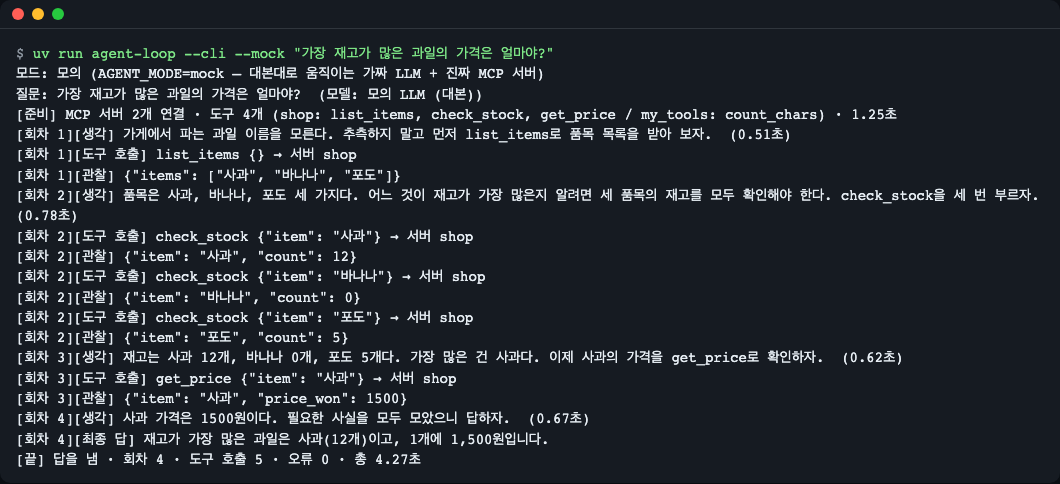
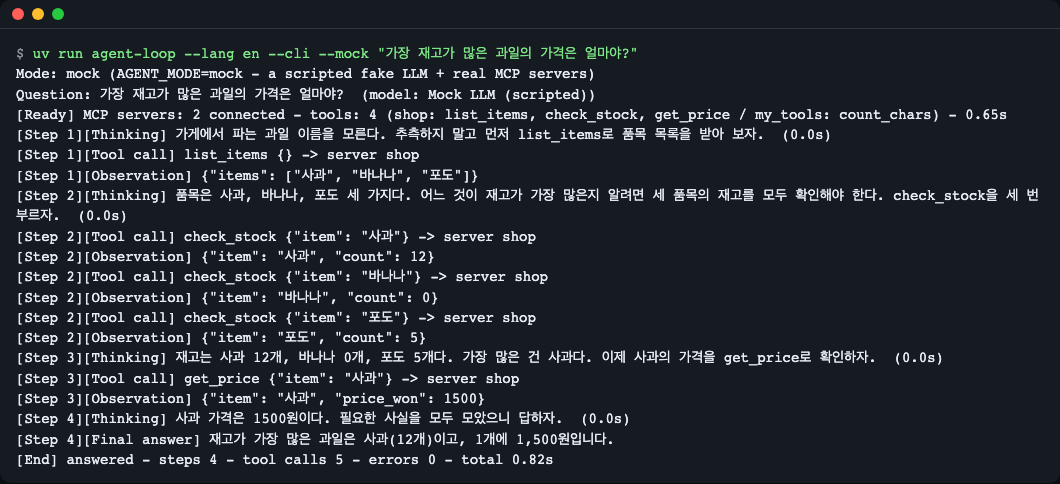
docs(readme): document language switching and add Korean CLI capture
Describe --lang and AGENT_LOOP_LANG, match button names to the UI, and note the argparse error limitation.

Changed region(s): [[0.0, 0.093, 0.9962, 0.9607]]

diff --git a/README.md b/README.md
@@ -4,7 +4,7 @@
 
 A small, transparent demo of a tool-using AI agent loop (plan → act → observe, repeated) that talks to two MCP (Model Context Protocol) servers. Run `uv run agent-loop --mock` and the browser shows every step: the model's thinking, each `tools/call` request, each result, and the growing message history. Mock mode needs no model and no network; real mode uses a local Ollama model (`qwen3:4b`).
 
-![Screen while one example question runs: thinking, tool-call and observation cards pile up and the highlight in the loop diagram moves along](docs/images/00-hero-loop.gif)
+![Screen while one example question runs: thinking, tool-call and observation cards pile up and the highlight in the loop diagram moves along. The screenshot shows the Korean UI](docs/images/00-hero-loop.gif)
 <sub>When you enter one question, "thinking → tool call → observation" cards pile up and the conversation history on the right grows one line at a time. (Recorded in mock mode)</sub>
 
 ## One-line summary
@@ -49,17 +49,17 @@ uv run agent-loop --mock
 The two lines below appear in the terminal and a browser opens. Press `Ctrl+C` to quit.
 
 ```text
-모드: 모의 (AGENT_MODE=mock — 대본대로 움직이는 가짜 LLM + 진짜 MCP 서버)
-주소: http://127.0.0.1:8765  (끝내려면 Ctrl+C)
+Mode: mock (AGENT_MODE=mock - a scripted fake LLM + real MCP servers)
+Address: http://127.0.0.1:8765  (press Ctrl+C to quit)
 ```
 
-(Mode: mock (AGENT_MODE=mock — a fake LLM that follows a script + real MCP servers). Address: http://127.0.0.1:8765 (Ctrl+C to quit).)
+(In a Korean locale, or with `--lang ko`, the same two lines are printed in Korean. See "Changing the display language" below.)
 
 If the browser doesn't open, open the address above yourself. On the first run it takes a little while because uv downloads packages.
 
 **What is mock mode?** It is a mode where a "fake model that speaks from a script" takes the place of the AI model. It runs without a model and the result is the same every time. However, the tool side (the MCP servers) is **real**: the server processes actually start, and messages are actually exchanged.
 
-![First screen. Numbered marks on the mode badge, the connected MCP server list and the example question buttons](docs/images/01-first-screen.png)
+![First screen. Numbered marks on the mode badge, the connected MCP server list and the example question buttons. The screenshot shows the Korean UI](docs/images/01-first-screen.png)
 <sub>The first screen. 1 the current mode, 2 the tool list the servers reported, 3 example questions to click.</sub>
 
 To run with a real local model (downloads about 2.5GB of model):
@@ -69,19 +69,31 @@ ollama pull qwen3:4b
 uv run agent-loop --real
 ```
 
+## Changing the display language
+
+The screen and the terminal output come in **English and Korean**. English is the default; Korean is used when you ask for it or when your system language is Korean.
+
+- **Terminal (CLI):** `uv run agent-loop --lang en --cli --mock "..."` for English or `--lang ko` for Korean (`--lang en|ko`). Without the option the language is taken from the `AGENT_LOOP_LANG` environment variable (`en` or `ko`), then from `LC_ALL`, `LC_MESSAGES` and `LANG` in that order. A value starting with `ko` (for example `ko_KR.UTF-8`) means Korean; anything else means English. `--help` follows the same choice. An invalid `--lang` value stops with exit code 2.
+- **Web screen:** use the **English / 한국어** menu in the header. Your choice is saved in the browser (`localStorage`) and kept after a reload. Only the first visit picks the language from the browser's language. Messages produced by the server (errors, the mode notice, the mock model's name) follow the same choice.
+- **What stays as it is:** the example questions and the shop data are Korean demo data, so they appear in Korean in the English UI too. MCP tool names and schemas, the event JSON field names, log files and exit codes do not depend on the language.
+
+> Upgrading from 0.1.x: in a non-Korean environment the default output language is now English (it used to be Korean). To keep the old output, run with `--lang ko` or set `AGENT_LOOP_LANG=ko`.
+
 ## Step by step
+
+> The web screenshots below show the Korean UI. The English UI has the same layout, with an English / 한국어 menu in the header.
 
 ### Step 1. See the "tool list" on the first screen
 
-Look at **연결된 MCP 서버** ("Connected MCP servers") on the left of the screen. You'll see 3 tools (`list_items`, `check_stock`, `get_price`) on the `shop` server and 1 tool (`count_chars`) on the `my_tools` server.
+Look at **Connected MCP servers** (**연결된 MCP 서버** in the Korean screen) on the left of the screen. You'll see 3 tools (`list_items`, `check_stock`, `get_price`) on the `shop` server and 1 tool (`count_chars`) on the `my_tools` server.
 
 This list is the answer the program got when it asked each server at startup, "what tools do you have?" In MCP this question is called **`tools/list`**. It contains each tool's **name, description and input format**, and the AI model reads exactly this text to choose which tool to call. In other words, a tool description is the user manual the model reads.
 
 ### Step 2. Run example 1 — a loop where results change the next action
 
-Click the button **예시 1: 가장 재고가 많은 과일의 가격은 얼마야?** ("Example 1: What is the price of the fruit with the most stock?"). A few seconds later the screen looks like this.
+Click the button **Example 1: 가장 재고가 많은 과일의 가격은 얼마야?** (the question is Korean demo data: "What is the price of the fruit with the most stock?"). A few seconds later the screen looks like this.
 
-![Full screen after example 1 finishes. Cards for rounds 1 to 4 are stacked, with the conversation history on the right](docs/images/02-chain-done.png)
+![Full screen after example 1 finishes. Cards for rounds 1 to 4 are stacked, with the conversation history on the right. The screenshot shows the Korean UI](docs/images/02-chain-done.png)
 <sub>Gray is thinking, blue is a tool call, green is an observation (the result the tool returned), and purple is the final answer.</sub>
 
 Read the cards from top to bottom.
@@ -93,13 +105,13 @@ Read the cards from top to bottom.
 
 The key point is that **without the result of round 1 (the item list), the action of round 2 could not have been decided.** The observation determines the next action. That is the loop.
 
-Also look at the **모델에게 보낸 대화 기록** ("Conversation history sent to the model") on the right. Entries grow with each round. The model has no memory, so in every round it re-reads "the entire conversation so far" and then says its next words.
+Also look at the **Conversation history sent to the model** on the right. Entries grow with each round. The model has no memory, so in every round it re-reads "the entire conversation so far" and then says its next words.
 
 ### Step 3. Open the MCP messages yourself
 
-Click **MCP 요청 보기 / MCP 응답 보기** ("View MCP request / View MCP response") on the tool-call card and the observation card to expand them.
+Click **Show MCP request (tools/call)** and **Show MCP response (content · structuredContent · isError)** on the tool-call card and the observation card to expand them.
 
-![Screen with the tool-call card and observation card expanded, showing the tools/call request and the result JSON](docs/images/03-mcp-messages.png)
+![Screen with the tool-call card and observation card expanded, showing the tools/call request and the result JSON. The screenshot shows the Korean UI](docs/images/03-mcp-messages.png)
 <sub>The upper request is `tools/call`, and the lower response contains `structuredContent` and `isError`.</sub>
 
 - Request: `"method": "tools/call"`, the tool name and the arguments (`arguments`). This is the MCP message that says "please run this tool with these values."
@@ -109,27 +121,27 @@ As the note at the bottom of the screen says, the request side is reconstructed 
 
 ### Step 4. An error is an observation too
 
-Click **예시 2: 수박 재고 있어?** ("Example 2: Is watermelon in stock?"). This shop has no watermelon.
+Click **Example 2: 수박 재고 있어?** ("Is watermelon in stock?"). This shop has no watermelon.
 
-![A red observation card marked isError true when asked about watermelon stock, and the next round that reads that error and answers](docs/images/04-error-observed.png)
+![A red observation card marked isError true when asked about watermelon stock, and the next round that reads that error and answers. The screenshot shows the Korean UI](docs/images/04-error-observed.png)
 <sub>The red card is the error observation. This text goes back to the model as is and becomes material for the next round of thinking.</sub>
 
 The tool returns the error `Error executing tool check_stock: unknown item: 수박. known: ['사과', '바나나', '포도']` (the leading `Error executing tool <tool name>:` is a prefix the SDK attaches; "수박" is watermelon). The program does not stop here; it **appends this error to the conversation history as an observation.** The model reads the information that "only three items are possible" and answers "we don't carry watermelon." If you **put a clue for fixing it** in the error text, the model can correct itself.
 
 ### Step 5. View one step at a time
 
-Check **한 단계씩 보기** ("View step by step") and run example 1 again. Now each time you click the **다음 단계** ("Next step") button, one card appears.
+Check **Step by step** and run example 1 again. Now each time you click the **Next step** button, one card appears.
 
-![Screen with step-by-step view on and Next step clicked five times. Only up to round 2's thinking is visible](docs/images/06-step-mode.png)
+![Screen with step-by-step view on and Next step clicked five times. Only up to round 2's thinking is visible. The screenshot shows the Korean UI](docs/images/06-step-mode.png)
 <sub>1 The button shows the number of steps remaining. 2 Only as many cards appear as you clicked. The loop diagram on the right highlights the current step.</sub>
 
 It is good for taking the loop apart slowly. Before clicking the button, try guessing first: "what will the next card be?"
 
 ### Step 6. See your own tool being called (example 3)
 
-Click **예시 3: '에이전트 루프'는 몇 글자야?** ("Example 3: How many characters is '에이전트 루프' (agent loop)?").
+Click **Example 3: '에이전트 루프'는 몇 글자야?** ("How many characters is '에이전트 루프' (agent loop)?").
 
-![The count_chars tool is called and returns 7 characters, 6 without spaces](docs/images/05-my-tool.png)
+![The count_chars tool is called and returns 7 characters, 6 without spaces. The screenshot shows the Korean UI](docs/images/05-my-tool.png)
 <sub>This time `count_chars` of the `my_tools` server was called, not `shop`.</sub>
 
 AI models often get character counting wrong. So the job is handed to a tool that is a few lines of function, and the model reads the result and answers. The code of this tool is in `servers/my_tools_server.py`, and you'll build one more in "Try changing things yourself" below.
@@ -139,13 +151,14 @@ AI models often get character counting wrong. So the job is handed to a tool tha
 The same loop runs even without a screen.
 
 ```bash
-uv run agent-loop --cli --mock "가장 재고가 많은 과일의 가격은 얼마야?"
+uv run agent-loop --lang en --cli --mock "가장 재고가 많은 과일의 가격은 얼마야?"
+# Korean labels: --lang ko (see "Changing the display language")
 ```
 
 ![Terminal output printing the thinking, tool calls and observations of each round, one line at a time](docs/images/07-cli.png)
-<sub>The same events as the web screen, printed as text. The final `[끝]` ("[end]") line summarizes the number of rounds and tool calls.</sub>
+<sub>The same events as the web screen, printed as text. The final `[End]` line (`[끝]` in Korean) summarizes the number of rounds and tool calls.</sub>
 
-The log the MCP server leaves (stderr) is collected in `runs/mcp-server-stderr.log` instead of the terminal so that output doesn't get mixed (rewritten on each run). If a log exists, the end notes it like `[서버 로그] MCP 서버가 남긴 로그 1줄은 runs/mcp-server-stderr.log 에 있습니다.` ("[server log] 1 line of log left by the MCP server is in runs/mcp-server-stderr.log."). If you run example 2 (watermelon), you can see the `Tool 'check_stock' failed: ...` line the server left in this file.
+The log the MCP server leaves (stderr) is collected in `runs/mcp-server-stderr.log` instead of the terminal so that output doesn't get mixed (rewritten on each run). If a log exists, the end notes it like `[Server log] The MCP servers wrote 1 log line(s) to runs/mcp-server-stderr.log.` (`[서버 로그] ...` in Korean). If you run example 2 (watermelon), you can see the `Tool 'check_stock' failed: ...` line the server left in this file.
 
 ### Step 8. Run with a real model
 
@@ -194,11 +207,12 @@ MCP's role is steps 2 and 4, that is, it defines **how tools are announced (`too
 | [`src/agentloop/mcp_hub.py`](src/agentloop/mcp_hub.py) | Connecting MCP servers, merging tool lists, calling tools |
 | [`src/agentloop/llm.py`](src/agentloop/llm.py) | Streaming thinking from Ollama |
 | [`src/agentloop/mock_llm.py`](src/agentloop/mock_llm.py), [`scenarios/`](scenarios) | The scripted model and scripts for mock mode |
+| [`src/agentloop/i18n.py`](src/agentloop/i18n.py) | English / Korean message table and language choice for the CLI and server messages (the web screen has its own table at the top of `static/app.js`) |
 | [`servers/shop_server.py`](servers/shop_server.py), [`servers/my_tools_server.py`](servers/my_tools_server.py) | The MCP server side (the side that holds the tools) |
 | [`src/agentloop/web.py`](src/agentloop/web.py), [`static/`](src/agentloop/static) | The web screen and event relay |
 | [`tests/`](tests) | Tests (they run in mock mode and need no key or model). Run with `uv run pytest` |
 
-**Running the tests:** `uv run pytest` finishes within a minute without a key or model (tests that need a real Ollama are skipped by default, and are run separately with `uv run pytest -m ollama`).
+**Running the tests:** `uv run pytest` finishes within a minute without a key or model (76 tests pass; tests that need a real Ollama are skipped by default, and are run separately with `uv run pytest -m ollama`).
 
 We recommend reading in the order `agent.py` → `mcp_hub.py` → `servers/`. Here are the three key places.
 
@@ -283,31 +297,29 @@ def reverse_text(text: str) -> Reversed:
     return {"text": text[::-1]}
 ```
 
-Save, and click the **다시 불러오기** ("Reload") button on the web screen (servers start fresh on each run) and it changes to `my_tools · 도구 2개` ("my_tools · 2 tools") and a `reverse_text` card appears. In the terminal it shows in the `[준비]` ("[ready]") line as `my_tools: count_chars, reverse_text`. Mock mode has scripts only for the 3 example questions, so to actually get the new tool called you have to ask in real mode (`--real`), such as "hello를 거꾸로 써 줘" ("write hello backwards"). If you made a separate new server file, add one line to `mcp_servers.json`.
+Save, and click the **Reload** button on the web screen (servers start fresh on each run) and it changes to `my_tools · tools: 2` and a `reverse_text` card appears. In the terminal it shows in the `[Ready]` line as `my_tools: count_chars, reverse_text`. Mock mode has scripts only for the 3 example questions, so to actually get the new tool called you have to ask in real mode (`--real`), such as "hello를 거꾸로 써 줘" ("write hello backwards"). If you made a separate new server file, add one line to `mcp_servers.json`.
 
 **2. Reduce the maximum rounds** — reduce the round cap to 2 with an environment variable.
 
 ```bash
-AGENT_MAX_STEPS=2 uv run agent-loop --cli --mock "가장 재고가 많은 과일의 가격은 얼마야?"
+AGENT_MAX_STEPS=2 uv run agent-loop --lang en --cli --mock "가장 재고가 많은 과일의 가격은 얼마야?"
 ```
 
-Example 1 needs 4 rounds, so it ends like this.
+Example 1 needs 4 rounds, so it ends like this (the last line of the output).
 
 ```text
-[끝] 최대 회차 도달 · 회차 2 · 도구 호출 4 · 오류 0 · 총 2.85초
+[End] max steps reached - steps 2 - tool calls 4 - errors 0 - total 1.9s
 ```
-
-(Meaning: "[end] maximum rounds reached · round 2 · tool calls 4 · errors 0 · total 2.85 s".)
 
 Stopping without an answer is the role of the "maximum rounds" guard. It protects the program in a situation where the model calls the same tool forever.
 
 **3. What if the error text is hidden?** — change `raise ToolError(` to `raise ValueError(` in `servers/shop_server.py` and run example 2 again. The observation changes like this.
 
 ```text
-[회차 1][관찰·오류] Error executing tool check_stock
+[Step 1][Observation-error] Error executing tool check_stock
 ```
 
-(The prefix reads "[round 1][observation·error]".)
+(Run it with `uv run agent-loop --lang en --cli --mock "수박 재고 있어?"`.)
 
 Originally (`ToolError`), the cause text follows the prefix, like `Error executing tool check_stock: unknown item: 수박. …`. If you change to a general exception, only the prefix remains and the cause text is hidden. The model can no longer know "what is possible", so the clue for fixing it disappears. (The scripted model in mock mode gives the same answer anyway, but with a real model there is a difference. After checking, put it back as it was.)
 
@@ -317,13 +329,14 @@ Originally (`ToolError`), the cause text follows the prefix, like `Error executi
 |---|---|---|
 | `VIRTUAL_ENV ... does not match the project environment` warning | Another Python virtual environment is active in the shell | You can ignore it. To get rid of it, `deactivate` or `env -u VIRTUAL_ENV uv run ...` |
 | The server won't start because the address is already in use | Another program uses port 8765 | `uv run agent-loop --port 9000` or `AGENT_PORT=9000` |
-| The mode starts as "모의" (mock) | Ollama is off or has no model, or Ollama was busy and didn't answer within 3 seconds | Run `ollama serve` and `ollama pull qwen3:4b`. If the detection wavers, force it with `--real` |
-| In real mode the first round seems stuck for a long time | The model is being loaded into memory | Wait through the thinking card's "모델 응답 기다리는 중… n초" ("waiting for the model response… n seconds") |
+| The mode badge shows "Mock mode" | Ollama is off or has no model, or Ollama was busy and didn't answer within 3 seconds | Run `ollama serve` and `ollama pull qwen3:4b`. If the detection wavers, force it with `--real` |
+| In real mode the first round seems stuck for a long time | The model is being loaded into memory | Wait through the thinking card's "Waiting for the model… ns" |
 | In mock mode, asking another question only shows a notice | Scripts exist only for the 3 examples | In real mode (`--real`) any question works |
-| A new tool doesn't show on screen | The list wasn't fetched again after editing the server code | The **다시 불러오기** ("Reload") button or a page refresh |
-| Error card `도구 이름 '…' 이(가) 서버 'a' 와 'b' 에 모두 있습니다` ("tool name '…' exists on both servers 'a' and 'b'") | The same tool name on two servers | Rename the tool on one side |
+| A new tool doesn't show on screen | The list wasn't fetched again after editing the server code | The **Reload** button or a page refresh |
+| Error card `Tool name '…' exists on both server 'a' and 'b'. Rename the tool on one of them.` | The same tool name on two servers | Rename the tool on one side |
 | A `Tool '…' failed` line shows in the terminal in web mode | You're seeing the MCP server's log (stderr) | Normal. With `--cli` this log goes to `runs/mcp-server-stderr.log`. Don't use `print()` in server code (standard output is reserved for MCP messages) |
 | I started it in Docker, a virtual machine or a remote dev server and can't connect from my PC's browser | The web server by default opens only on `127.0.0.1` (the computer itself) | Open to all addresses with `--host 0.0.0.0`. Docker also needs the port exported: inside `docker run -p 8765:8765 ...`, run `uv run agent-loop --mock --host 0.0.0.0 --no-browser` and then open `http://127.0.0.1:8765`. For a remote server, port forwarding with `ssh -L 8765:127.0.0.1:8765 <server>` is safer than changing `--host` |
+| `--lang xx` prints a usage line in one language and the error sentence in English | argparse prints its own "invalid choice" sentence in English, even when the system language is Korean | Known limitation. Use `en` or `ko`; the exit code is 2 either way |
 
 **Caution:** An stdio MCP server **runs code on my PC**. The web screen of this demo by default opens only on `127.0.0.1` (my PC). If you pass `--host 0.0.0.0`, other devices on the same network can also run questions (a warning appears at startup), so use it only on a trusted network. When you add a server you didn't write to `mcp_servers.json`, check its code and register only those you trust.
 
@@ -339,7 +352,7 @@ Many MCP examples found on the web are based on the old version (SDK v1), and co
 
 ## Further reading
 
-- Try another model: `OLLAMA_MODEL=<a model that supports tool calling> uv run agent-loop --real`. This demo was verified only with `qwen3:4b`. The environment variables (`AGENT_MODE`, `OLLAMA_HOST`, `OLLAMA_MODEL`, `OLLAMA_NUM_CTX`, `AGENT_MAX_STEPS`, `AGENT_PORT`, `MOCK_DELAY_MS`, `MCP_SERVERS_FILE`) are described in [.env.example](.env.example).
+- Try another model: `OLLAMA_MODEL=<a model that supports tool calling> uv run agent-loop --real`. This demo was verified only with `qwen3:4b`. The environment variables (`AGENT_MODE`, `OLLAMA_HOST`, `OLLAMA_MODEL`, `OLLAMA_NUM_CTX`, `AGENT_MAX_STEPS`, `AGENT_PORT`, `MOCK_DELAY_MS`, `MCP_SERVERS_FILE`, `AGENT_LOOP_LANG`) are described in [.env.example](.env.example).
 - Connecting a remote server: this demo uses only stdio. For connecting over HTTP, see the [Streamable HTTP transport specification](https://modelcontextprotocol.io/specification/2026-07-28/basic/transports).
 - [MCP specification](https://modelcontextprotocol.io/specification/latest) — the full protocol description
 - [MCP Tools specification](https://modelcontextprotocol.io/specification/2026-07-28/server/tools) — `tools/list`, `tools/call`, `isError`
